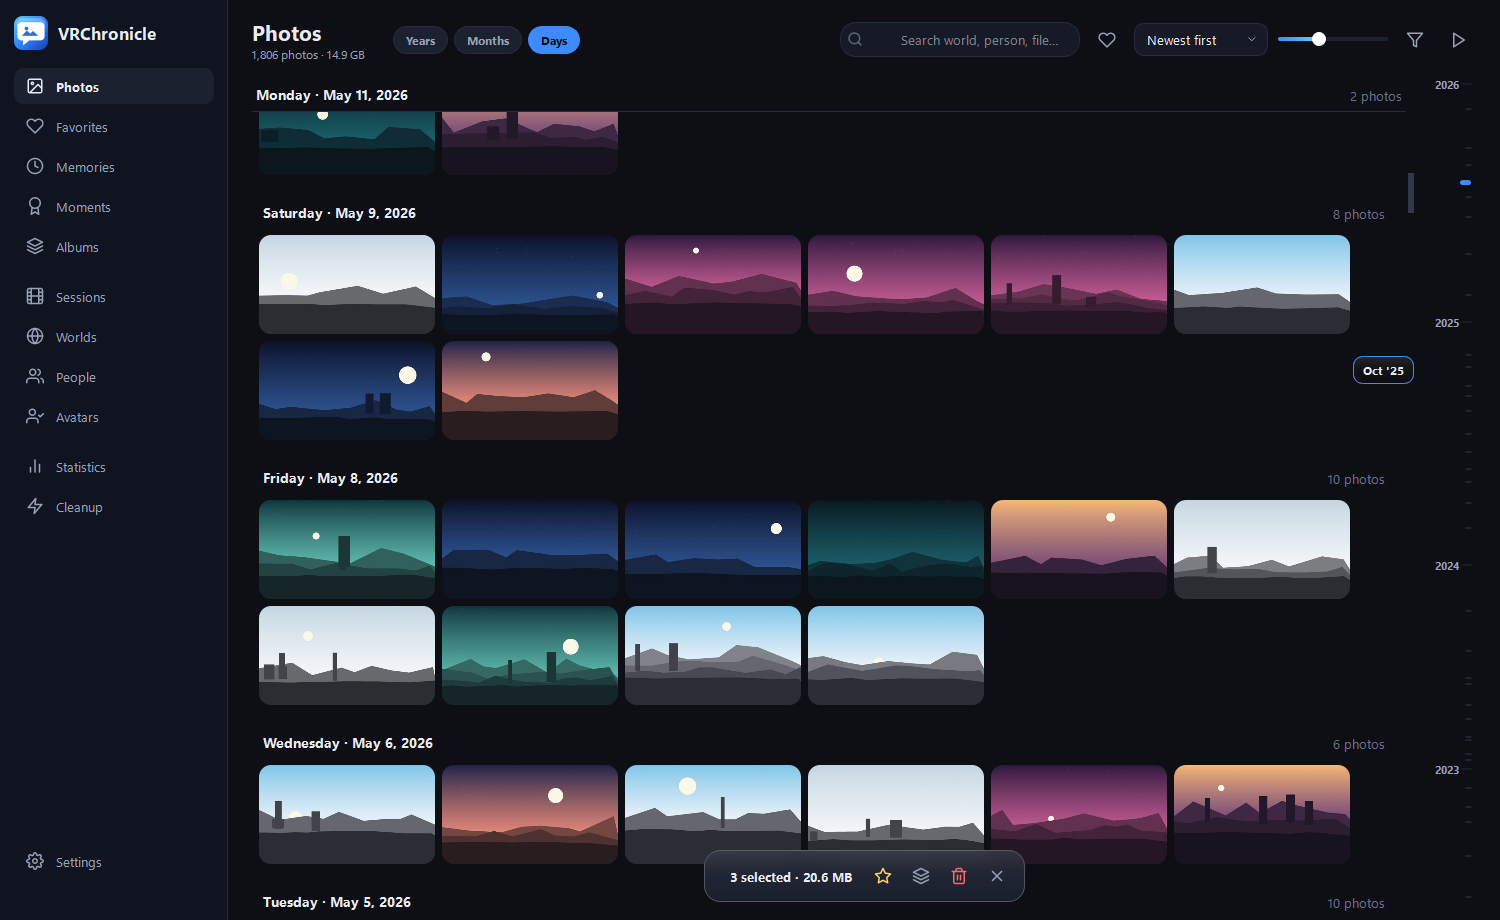
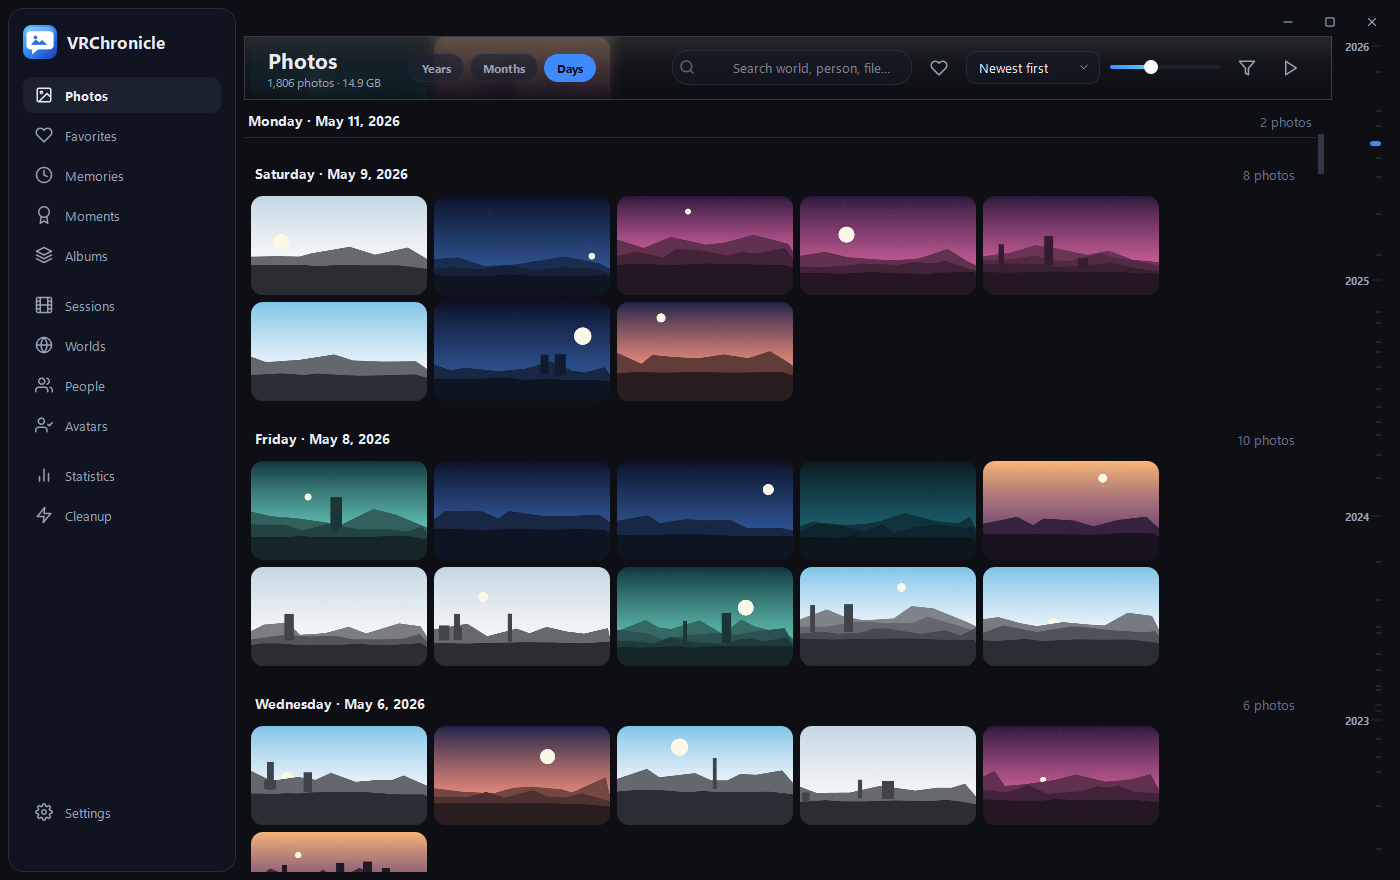
1.8.0: the grid scrolls under the header, and the header is glass
Erik asked for the header buttons to be glass with the photos showing behind
them. They could not be: the header sat in a band ABOVE the grid, so there was
nothing behind it to show. Frosting it there would have been a picture of
glass rather than glass.

So the grid now fills the page and the header floats over it. The model grows
a KIND_SPACER row as tall as the header, which is what keeps the first day
from starting life hidden underneath -- the alternative, viewport margins,
stops the content scrolling under at all, which is the whole point. The bar
stops where the timeline rail begins so it does not sit on its year labels.

The controls in it went translucent to match: a solid search box or pill on a
frosted bar punches an opaque hole in it.

Debugging note worth keeping: adding the spacer crashed the process natively,
with a stack that only pointed at the test line. It was not the glass and not
the item flags -- month_marks walked every row and read `.day` off the spacer's
integer payload, and that AttributeError was raised inside a Qt slot, which
takes the whole process down rather than printing. When a Qt app dies with an
access violation, look for a Python exception on a slot first.

Tests 108 -> 109, including one that asserts photos really are behind the bar
and that the first day is not hidden by it.

diff --git a/vrchronicle/gridpage.py b/vrchronicle/gridpage.py
@@ -272,11 +272,15 @@ class GridPage(QWidget):
         self._levels_on = False     # only the Photos page browses by period
 
         root = QVBoxLayout(self)
-        root.setContentsMargins(24, 18, 24, 0)
-        root.setSpacing(12)
+        root.setContentsMargins(0, 0, 0, 0)
+        root.setSpacing(0)
 
-        # --- header ---
-        head = QHBoxLayout()
+        # The header floats over the grid so the photos scroll underneath it and
+        # show through the glass. The grid gets a spacer row of the same height
+        # so nothing starts life hidden behind it.
+        self.headbar = widgets.GlassBar(self)
+        head = QHBoxLayout(self.headbar)
+        head.setContentsMargins(24, 10, 24, 10)
         head.setSpacing(10)
         self.btn_back = widgets.icon_btn("arrow-left", "Back", style.PAL["text"], px=19)
         self.btn_back.clicked.connect(self.back_requested)
@@ -335,6 +339,7 @@ class GridPage(QWidget):
         head.addWidget(self.btn_fav)
 
         self.sort_box = QComboBox()
+        self.sort_box.setObjectName("OnGlass")
         self.sort_box.addItems(["Newest first", "Oldest first"])
         self.sort_box.currentIndexChanged.connect(self._on_sort)
         head.addWidget(self.sort_box)
@@ -354,8 +359,13 @@ class GridPage(QWidget):
         self.btn_play = widgets.icon_btn("play", "Slideshow", style.PAL["dim"])
         self.btn_play.clicked.connect(self._start_slideshow)
         head.addWidget(self.btn_play)
-        root.addLayout(head)
-        root.addWidget(self._build_filter_bar())
+        # header + filter bar ride together as one floating overlay
+        self.headwrap = QWidget(self)
+        hw = QVBoxLayout(self.headwrap)
+        hw.setContentsMargins(0, 0, 0, 0)
+        hw.setSpacing(0)
+        hw.addWidget(self.headbar)
+        hw.addWidget(self._build_filter_bar())
 
         # --- grid ---
         self.model = GridModel(self)
@@ -367,7 +377,7 @@ class GridPage(QWidget):
         self.view.setItemDelegate(self.delegate)
 
         body = QHBoxLayout()
-        body.setContentsMargins(0, 0, 0, 0)
+        body.setContentsMargins(0, 0, 6, 0)
         body.setSpacing(6)
         body.addWidget(self.view, 1)
         self.rail = TimelineRail(self)
@@ -389,6 +399,7 @@ class GridPage(QWidget):
         self.empty = widgets.EmptyState("image", "Nothing here",
                                         "Your VRChat shots will show up here.", self.view)
         self.empty.hide()
+        self.headbar.set_glass_source(self.view.viewport())
         self.sticky = StickyDay(self)
         self.sticky.set_glass_source(self.view.viewport())
         self.selbar = widgets.SelectionBar(self)
@@ -552,7 +563,8 @@ class GridPage(QWidget):
         if periods:
             rows = self.db.period_summary(self.level, self._level_year)
             covers = self.db.photos_by_ids([r["cover_id"] for r in rows])
-            self.model.set_periods(rows, self.level, covers)
+            self.model.set_periods(rows, self.level, covers,
+                                   top_gap=self.head_height())
             n = sum(r["c"] for r in rows)
             total = sum(r["b"] or 0 for r in rows)
             what = "year" if self.level == "year" else "month"
@@ -567,7 +579,8 @@ class GridPage(QWidget):
             return
         self.filter.sort_desc = self.sort_box.currentIndex() == 0
         self._rows = self.db.query_photos(self.filter)
-        self.model.set_photos(self._rows, group_by_day=True)
+        self.model.set_photos(self._rows, group_by_day=True,
+                              top_gap=self.head_height())
         n = len(self._rows)
         total = sum((r["filesize"] or 0) for r in self._rows)
         self.lab_sub.setText(f"{fmt.count_label(n)} {fmt.plural(n, 'photo')} · "
@@ -641,9 +654,10 @@ class GridPage(QWidget):
         self._sync_sticky()
 
     def _top_index(self):
-        """First item under the top of the viewport, skipping the layout gaps."""
+        """First item under the floating header, skipping the layout gaps."""
         w = self.view.viewport().width()
-        for y in range(2, 60, 4):
+        start = self.head_height() + 2
+        for y in range(start, start + 60, 4):
             for x in (8, w // 2, max(8, w - 14)):
                 ix = self.view.indexAt(QPoint(x, y))
                 if ix.isValid():
@@ -679,7 +693,8 @@ class GridPage(QWidget):
         # the glass under it can only be sampled from the viewport anyway
         vp = self.view.viewport()
         pos = vp.mapTo(self, QPoint(0, 0))
-        self.sticky.setGeometry(pos.x(), pos.y(), vp.width(), StickyDay.HEIGHT)
+        self.sticky.setGeometry(pos.x(), pos.y() + self.head_height(),
+                                vp.width(), StickyDay.HEIGHT)
 
     def _zoom_by(self, steps):
         """Ctrl+wheel: resize the thumbnails and stay where you were."""
@@ -767,7 +782,16 @@ class GridPage(QWidget):
         self._position_overlays()
         QTimer.singleShot(0, self._refresh_rail)   # rewrapping moves every month
 
+    def head_height(self):
+        return self.headwrap.sizeHint().height() if hasattr(self, "headwrap") else 0
+
     def _position_overlays(self, animate_selbar=False):
+        if hasattr(self, "headwrap"):
+            # stop where the timeline rail starts, or the bar sits on its labels
+            gap = (self.rail.width() + 6) if self.rail.isVisible() else 0
+            self.headwrap.setGeometry(0, 0, max(120, self.width() - gap),
+                                      self.head_height())
+            self.headwrap.raise_()
         if self.sticky.isVisible():
             self._place_sticky()
         if self.empty.isVisible():

diff --git a/tests/test_smoke_ui.py b/tests/test_smoke_ui.py
@@ -315,6 +315,56 @@ def test_the_day_header_sticks_only_once_you_have_scrolled_past_it(window, app):
     window.hide()
 
 
+def test_the_grid_scrolls_under_the_floating_header(window, app):
+    """The header is glass, so the photos have to actually be behind it.
+
+    The grid fills the page and a spacer row of the header's height keeps the
+    first day from starting life hidden underneath.
+    """
+    from PySide6.QtCore import QPoint
+    from PySide6.QtTest import QTest
+    from vrchronicle.gridmodel import KIND_SPACER, KindRole
+    from vrchronicle.widgets import Glass
+
+    _many_photos(window.db)
+    window.resize(1200, 820)
+    window.show()
+    QTest.qWaitForWindowExposed(window)
+    window.activate("all")
+    page = window.page_grid
+    app.processEvents()
+
+    h = page.head_height()
+    assert h > 20
+    assert page.model.index(0, 0).data(KindRole) == KIND_SPACER
+    # the view reaches the top of the page: there is content under the header
+    assert page.view.mapTo(page, QPoint(0, 0)).y() == 0
+    assert page.headwrap.geometry().top() == 0
+
+    # nothing is hidden at rest: the first real row starts below the header
+    first = page.view.visualRect(page.model.index(1, 0))
+    assert first.top() >= h - 2, "the first day would sit under the header"
+
+    # scrolled, photos really are behind the bar, and the glass samples them
+    bar = page.view.verticalScrollBar()
+    bar.setValue(int(bar.maximum() * 0.3))
+    app.processEvents()
+    vw = page.view.viewport().width()
+    behind = None
+    for y in range(4, h, 3):                 # the layout has gaps; probe a few points
+        for x in (12, vw // 3, vw // 2):
+            ix = page.view.indexAt(QPoint(x, y))
+            if ix.isValid():
+                behind = ix
+                break
+        if behind is not None:
+            break
+    assert behind is not None, "nothing scrolled under the header"
+    blurred, offset = Glass.backdrop(page.headbar, page.view.viewport())
+    assert blurred is not None and not blurred.isNull()
+    window.hide()
+
+
 def test_the_floating_panels_render_their_glass(window, app):
     """Glass samples a sibling's content, which mapTo cannot address.
 
@@ -430,22 +480,32 @@ def test_browsing_zooms_from_years_to_months_to_days(window, app):
     page = window.page_grid
     assert not page.levels.isHidden(), "the level control belongs on Photos"
 
+    def cards(page):
+        """(index, payload) for the period cards, skipping the header spacer."""
+        out = []
+        for r in range(page.model.rowCount()):
+            ix = page.model.index(r, 0)
+            if ix.data(KindRole) == KIND_PERIOD:
+                out.append((ix, ix.data(ItemRole)))
+        return out
+
+    def card_for(page, key):
+        for ix, d in cards(page):
+            if d["key"] == key:
+                return ix
+        raise AssertionError(f"no card for {key}")
+
     page.set_level("year")
-    kinds = [page.model.index(r, 0).data(KindRole) for r in range(page.model.rowCount())]
-    assert kinds and set(kinds) == {KIND_PERIOD}
-    years = [page.model.index(r, 0).data(ItemRole)["label"]
-             for r in range(page.model.rowCount())]
-    assert years == ["2026", "2025", "2024"]      # newest first, incl. the fixture photo
+    got = cards(page)
+    assert [d["label"] for _ix, d in got] == ["2026", "2025", "2024"]  # newest first
     # the photo-only controls step aside at this level
     assert page.slider.isHidden() and page.sort_box.isHidden()
 
-    page._open_from_index(page.model.index(2, 0))     # click 2024
+    page._open_from_index(card_for(page, "2024"))
     assert page.level == "month" and page._level_year == "2024"
-    months = [page.model.index(r, 0).data(ItemRole)["key"]
-              for r in range(page.model.rowCount())]
-    assert months == ["2024-07", "2024-03"]
+    assert [d["key"] for _ix, d in cards(page)] == ["2024-07", "2024-03"]
 
-    page._open_from_index(page.model.index(1, 0))     # click March 2024
+    page._open_from_index(card_for(page, "2024-03"))
     assert page.level == "day"
     assert page.filter.date_from == "2024-03-01"
     assert page.filter.date_to == "2024-03-31"

diff --git a/vrchronicle/gridmodel.py b/vrchronicle/gridmodel.py
@@ -16,6 +16,8 @@ ItemRole = Qt.UserRole + 2
 KIND_HEADER = 0
 KIND_PHOTO = 1
 KIND_PERIOD = 2       # a year or month card at the zoomed-out browsing levels
+KIND_SPACER = 3       # blank full-width row: the content scrolls under a floating
+                      # header, so it needs somewhere to start
 
 
 class PhotoItem:
@@ -135,11 +137,13 @@ class GridModel(QAbstractListModel):
         self._by_id = {}           # pid -> model row
         self._photos = []          # PhotoItem list in display order
 
-    def set_photos(self, db_rows, group_by_day=True):
+    def set_photos(self, db_rows, group_by_day=True, top_gap=0):
         self.beginResetModel()
         self._rows = []
         self._by_id = {}
         self._photos = []
+        if top_gap:
+            self._rows.append((KIND_SPACER, top_gap))
         if group_by_day:
             counts = {}
             for r in db_rows:
@@ -161,12 +165,14 @@ class GridModel(QAbstractListModel):
                 self._rows.append((KIND_PHOTO, item))
         self.endResetModel()
 
-    def set_periods(self, rows, level, covers):
+    def set_periods(self, rows, level, covers, top_gap=0):
         """Year or month cards. rows: db.period_summary; covers: id -> photo row."""
         self.beginResetModel()
         self._rows = []
         self._by_id = {}
         self._photos = []
+        if top_gap:
+            self._rows.append((KIND_SPACER, top_gap))
         for r in rows:
             key = r["k"]
             label = key if level == "year" else fmt.month_label(key)
@@ -196,7 +202,9 @@ class GridModel(QAbstractListModel):
         if not index.isValid():
             return Qt.NoItemFlags
         kind, _ = self._rows[index.row()]
-        if kind == KIND_HEADER:
+        if kind in (KIND_HEADER, KIND_SPACER):
+            # NoItemFlags on a row inside an IconMode QListView crashes the
+            # native layout; a header is enabled-but-not-selectable and works
             return Qt.ItemIsEnabled
         return Qt.ItemIsEnabled | Qt.ItemIsSelectable
 
@@ -205,7 +213,7 @@ class GridModel(QAbstractListModel):
         if not (0 <= row < len(self._rows)):
             return None
         kind, payload = self._rows[row]
-        if kind == KIND_PERIOD:
+        if kind in (KIND_PERIOD, KIND_SPACER):
             return None
         day = payload[0] if kind == KIND_HEADER else payload.day
         if not day:
@@ -226,6 +234,8 @@ class GridModel(QAbstractListModel):
         marks = []
         last = None
         for row, (kind, payload) in enumerate(self._rows):
+            if kind == KIND_SPACER:      # a blank row has no date of its own
+                continue
             day = payload[0] if kind == KIND_HEADER else payload.day
             ym = (day or "")[:7]
             if ym and ym != last:
@@ -306,6 +316,9 @@ class PhotoDelegate(QStyledItemDelegate):
 
     def sizeHint(self, option, index):
         kind = index.data(KindRole)
+        if kind == KIND_SPACER:
+            vw = self.view.viewport().width()
+            return QSize(max(80, vw - 24), max(1, int(index.data(ItemRole) or 1)))
         if kind == KIND_HEADER:
             vw = self.view.viewport().width()
             return QSize(max(80, vw - 24), 46)
@@ -319,6 +332,9 @@ class PhotoDelegate(QStyledItemDelegate):
         painter.save()
         painter.setRenderHint(QPainter.Antialiasing, True)
         painter.setRenderHint(QPainter.SmoothPixmapTransform, True)
+        if kind == KIND_SPACER:
+            painter.restore()
+            return
         if kind == KIND_HEADER:
             self._paint_header(painter, option, index)
         elif kind == KIND_PERIOD:

diff --git a/vrchronicle/style.py b/vrchronicle/style.py
@@ -130,7 +130,7 @@ QPushButton#IconBtn {{
 QPushButton#IconBtn:hover {{ background: {P['hover']}; }}
 QPushButton#IconBtn:checked {{ background: {mix(A, 0.18)}; }}
 QPushButton#PillBtn {{
-    background: {P['surface2']}; border: 1px solid {P['border']};
+    background: {mix('#1c2130', 0.62)}; border: 1px solid {mix('#262c3d', 0.8)};
     border-radius: 14px; padding: 5px 12px; color: {P['dim']};
     /* the same weight checked and unchecked: a bolder label needs more room
        than the button was measured for, and the text ends up clipped */
@@ -155,7 +155,16 @@ QLineEdit {{
     selection-background-color: {mix(A, 0.45)};
 }}
 QLineEdit:focus {{ border-color: {A}; }}
-QLineEdit#SearchBox {{ border-radius: 16px; padding: 7px 12px 7px 32px; }}
+/* the header floats over the photos, so its controls are translucent too --
+   a solid fill there would punch opaque holes in the glass */
+QLineEdit#SearchBox {{
+    border-radius: 16px; padding: 7px 12px 7px 32px;
+    background: {mix('#161a26', 0.55)}; border-color: {mix('#303748', 0.7)};
+}}
+QLineEdit#SearchBox:focus {{ background: {mix('#161a26', 0.8)}; }}
+#GlassBarChild QComboBox, QComboBox#OnGlass {{
+    background: {mix('#161a26', 0.55)}; border-color: {mix('#303748', 0.7)};
+}}
 QSpinBox {{
     background: {P['surface']}; border: 1px solid {P['border']};
     border-radius: 8px; padding: 5px 8px;

diff --git a/vrchronicle/widgets.py b/vrchronicle/widgets.py
@@ -91,6 +91,30 @@ class Glass:
         return blurred is not None
 
 
+class GlassBar(QFrame):
+    """A frosted bar that content scrolls underneath."""
+
+    def __init__(self, parent=None, radius=0, tint=None, tint_alpha=175):
+        super().__init__(parent)
+        self._glass_source = None
+        self._radius = radius
+        self._tint = tint
+        self._alpha = tint_alpha
+
+    def set_glass_source(self, w):
+        self._glass_source = w
+        self.update()
+
+    def paintEvent(self, ev):
+        p = QPainter(self)
+        p.setRenderHint(QPainter.Antialiasing, True)
+        p.setRenderHint(QPainter.SmoothPixmapTransform, True)
+        if not Glass.paint(p, self, self._glass_source, radius=self._radius,
+                           tint=self._tint or style.PAL["bg"], tint_alpha=self._alpha):
+            p.fillRect(self.rect(), QColor(self._tint or style.PAL["bg"]))
+        p.end()
+
+
 class TitleBar(QFrame):
     """The window's own title bar, so the chrome matches the app.
 

diff --git a/vrchronicle/paths.py b/vrchronicle/paths.py
@@ -6,7 +6,7 @@ import faulthandler
 APP_NAME = "VRChronicle"
 APP_TAGLINE = "VRChat photo album"
 APP_ID = "VRChronicle.Desktop"      # AppUserModelID: taskbar grouping identity
-APP_VERSION = "1.7.1"
+APP_VERSION = "1.8.0"
 _LEGACY_NAMES = ("Aperture",)     # data dirs from before the rename
 
 APPDIR = os.path.join(os.environ.get("LOCALAPPDATA", os.path.expanduser("~")), APP_NAME)

diff --git a/README.md b/README.md
@@ -34,12 +34,12 @@ At the Days level the day you are inside stays pinned to the top while you scrol
 right edge jumps through the years — point at it and it names the month you would
 land on.
 
-The small panels that float over your photos — the selection bar, the rail's month
-bubble, notifications — are frosted glass: each samples what is underneath, blurs it
-and tints it, so the panel belongs to the photo it is sitting on rather than covering
-it up. The pinned day header is deliberately solid: it spans the full width while the
-photos under it do not, and glass there is half smeared picture and half flat
-background.
+The grid scrolls **underneath** the page header, and the header is frosted glass: it
+samples the photos behind it, blurs them and tints them, so the toolbar belongs to the
+library rather than sitting in a band above it. The selection bar, the rail's month
+bubble and notifications are made of the same material. The pinned day header is
+deliberately solid: it spans the full width while the photos under it do not, and glass
+there is half smeared picture and half flat background.
 
 ![Frosted panels over the grid](docs/12-glass.png)
 
